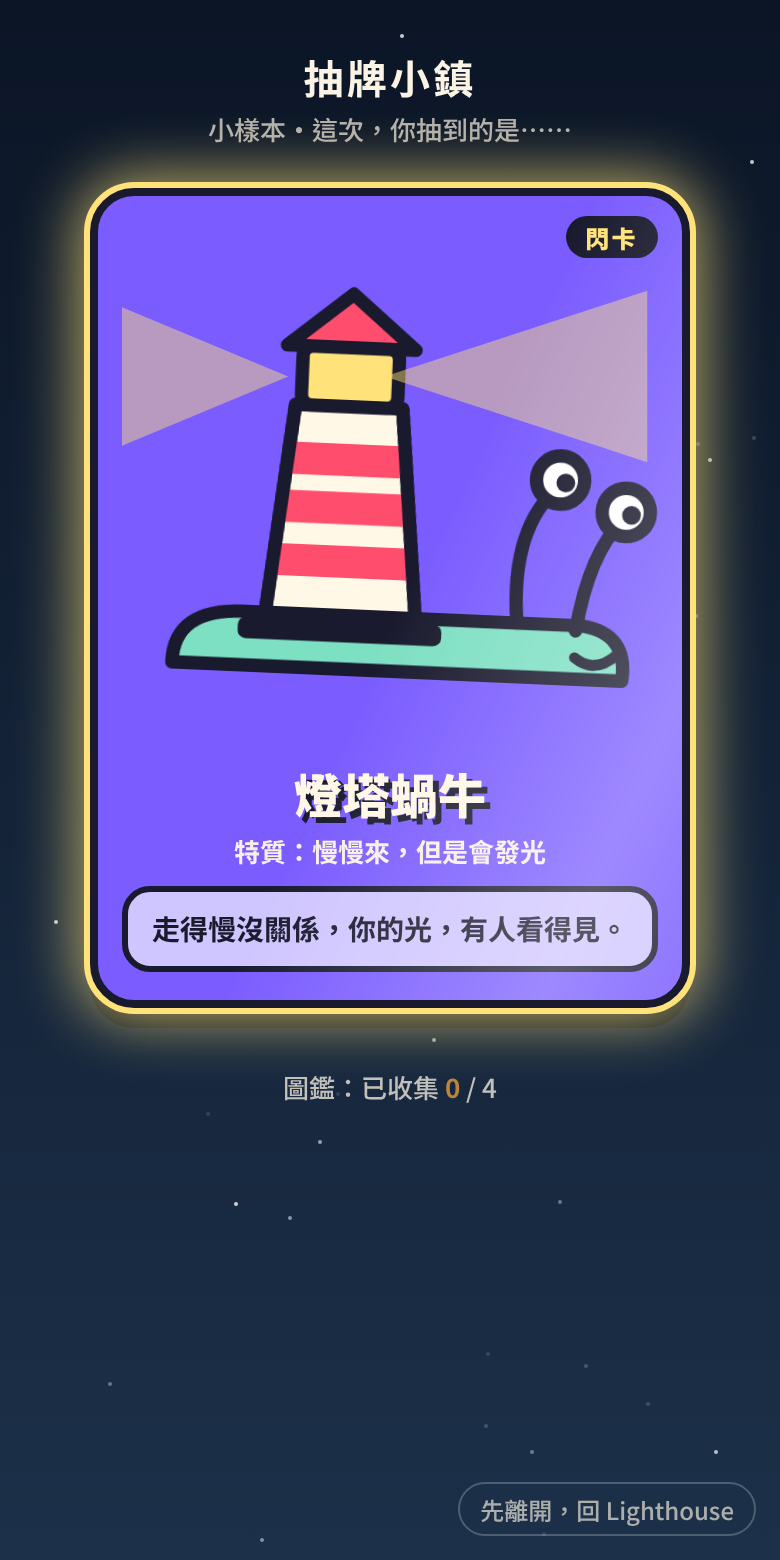
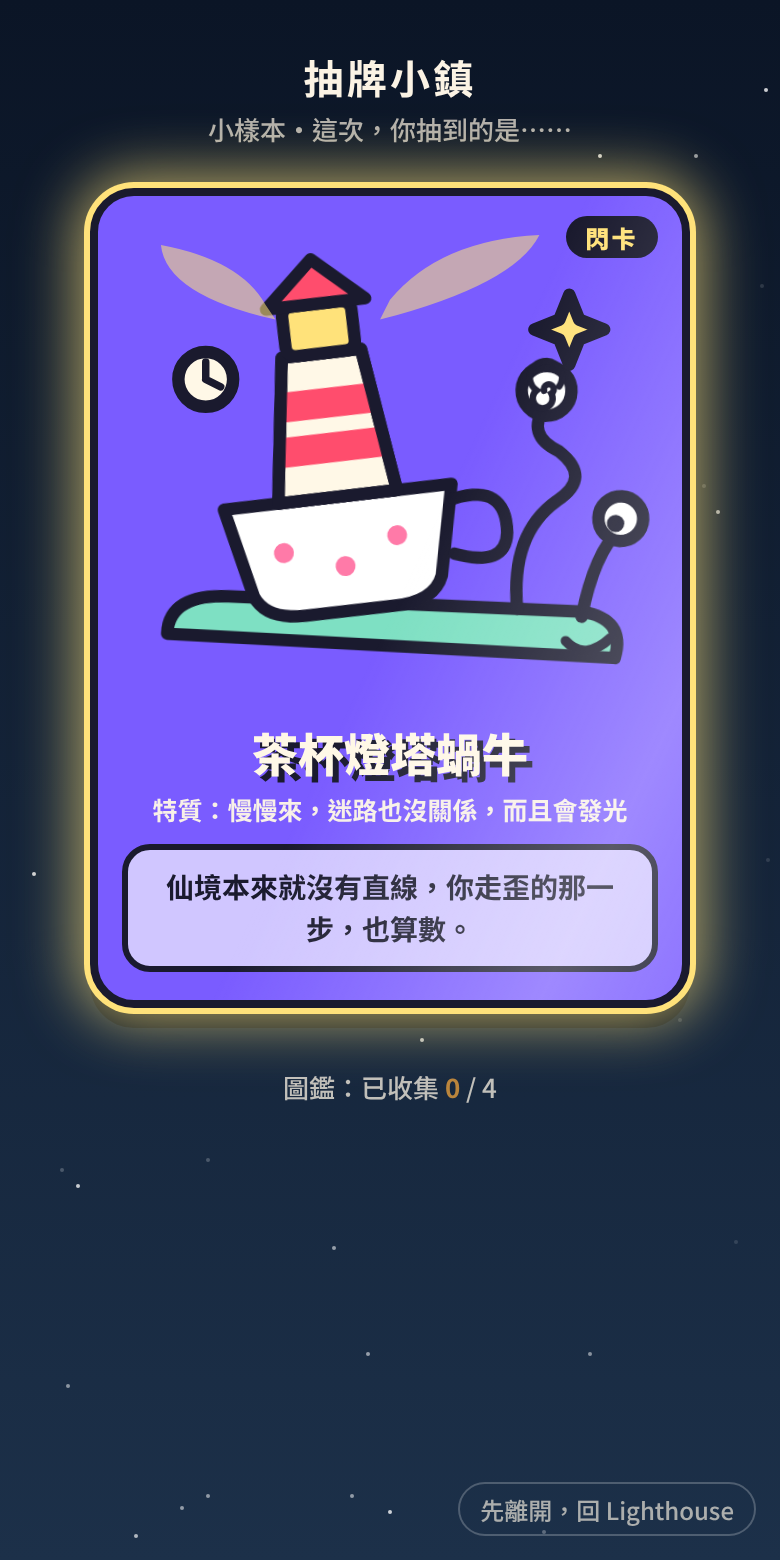
Lighthouse: 抽牌小樣本改成仙境風怪怪角色（多眼、倒走時鐘、茶杯燈塔）
Claude-Session: https://claude.ai/code/session_01QMXbFy7GatcecM2zJaJAS8

Changed region(s): [[0.1538, 0.1538, 0.8615, 0.6154]]

diff --git a/lighthouse/cards-sample.html b/lighthouse/cards-sample.html
@@ -24,16 +24,18 @@ h1{font-size:20px;margin:6px 0 2px;letter-spacing:.08em}
 .card.flip{transform:rotateY(180deg)}
 .face{position:absolute;inset:0;border-radius:22px;backface-visibility:hidden;-webkit-backface-visibility:hidden;border:4px solid var(--ink);
   box-shadow:0 10px 0 rgba(0,0,0,.35)}
-.back{background:repeating-linear-gradient(45deg,#2b4a6b 0 12px,#33567a 12px 24px);display:flex;align-items:center;justify-content:center;flex-direction:column;gap:10px}
-.back .q{font-size:84px;font-weight:900;color:var(--acc);text-shadow:4px 4px 0 var(--ink);animation:bob 1.6s ease-in-out infinite}
+.back{background:repeating-conic-gradient(#2b1a4a 0 12deg,#4a2a7a 12deg 24deg);display:flex;align-items:center;justify-content:center;flex-direction:column;gap:10px}
+.back .q{font-size:84px;transform-origin:center;font-weight:900;color:var(--acc);text-shadow:4px 4px 0 var(--ink);animation:bob 1.6s ease-in-out infinite}
 .back .hint{font-size:14px;font-weight:700;background:var(--ink);color:#fbf3e4;padding:4px 12px;border-radius:99px}
-@keyframes bob{50%{transform:translateY(-8px) rotate(-4deg)}}
+@keyframes bob{0%,100%{transform:translateY(0) rotate(-8deg)}50%{transform:translateY(-12px) rotate(10deg)}}
+.clk{animation:rev 6s linear infinite}
+@keyframes rev{to{transform:rotate(-360deg)}}
 .front{transform:rotateY(180deg);padding:12px 12px 14px;display:flex;flex-direction:column;color:var(--ink)}
 .front .rar{position:absolute;top:10px;right:12px;font-size:12px;font-weight:900;background:var(--ink);color:#ffe27a;padding:2px 10px;border-radius:99px;letter-spacing:.1em}
 .front .art{flex:1;display:flex;align-items:center;justify-content:center;min-height:0}
 .front .art svg{width:100%;height:100%}
-.front .name{font-size:24px;font-weight:900;text-align:center;margin:0}
-.front .trait{font-size:13px;font-weight:700;text-align:center;margin:2px 0 8px;opacity:.75}
+.front .name{font-size:23px;font-weight:900;text-align:center;margin:0}
+.front .trait{font-size:12.5px;font-weight:700;text-align:center;margin:2px 0 8px;opacity:.75}
 .front .say{background:rgba(255,255,255,.65);border:3px solid var(--ink);border-radius:14px;padding:8px 10px;font-size:14px;font-weight:700;text-align:center;line-height:1.5}
 .front.rare{color:#fff8e7}
 .front.rare .name{text-shadow:3px 3px 0 var(--ink)}
@@ -67,7 +69,7 @@ h1{font-size:20px;margin:6px 0 2px;letter-spacing:.08em}
 <p class="sub">小樣本・這次，你抽到的是⋯⋯</p>
 
 <div class="stage"><div class="card" id="card" role="button" tabindex="0" aria-label="翻牌">
-  <div class="face back"><div class="q">?</div><div class="hint">點一下，翻牌</div></div>
+  <div class="face back"><div class="q">?</div><div class="hint">掉進兔子洞，翻牌</div></div>
   <div class="face front" id="front"></div>
 </div></div>
 
@@ -82,65 +84,89 @@ const o = `stroke="${INK}" stroke-width="5" stroke-linejoin="round" stroke-linec
 
 /* 角色：全部是手繪塗鴉風 SVG，故意歪歪的、不對稱 */
 const eyeBig = (x,y,r=11,px=0) => `<g class="blink"><circle cx="${x}" cy="${y}" r="${r}" fill="#fff" ${o}/><circle cx="${x+px}" cy="${y+2}" r="${r/2.4}" fill="${INK}"/></g>`;
+const eyeSpiral = (x,y,r=12) => `<g class="blink"><circle cx="${x}" cy="${y}" r="${r}" fill="#fff" ${o}/><path d="M${x} ${y} m-1 0 a2 2 0 1 1 3 1 a4 4 0 1 1 -6 -1 a6.5 6.5 0 1 1 9 -2" fill="none" stroke="${INK}" stroke-width="2.6" stroke-linecap="round"/></g>`;
 const ART = {
+  /* 吐司水獺：奶油融化中，三隻眼睛高低不一，手像麵條 */
   otter: `<svg viewBox="0 0 200 200"><g class="wob">
-    <path d="M52 70 Q52 38 82 42 Q100 28 118 42 Q148 38 148 70 L152 150 Q152 172 130 172 L70 172 Q48 172 48 150 Z" fill="#f2b45a" ${o}/>
-    <path d="M62 62 Q100 48 138 62" fill="none" stroke="#c9822e" stroke-width="5" stroke-linecap="round"/>
-    <ellipse cx="100" cy="112" rx="34" ry="30" fill="#8a5a38" ${o}/>
-    <ellipse cx="100" cy="124" rx="20" ry="14" fill="#e6c9a0" ${o}/>
-    <ellipse cx="100" cy="116" rx="7" ry="5" fill="${INK}"/>
-    <path d="M76 98 Q84 92 92 98" fill="none" stroke="${INK}" stroke-width="5" stroke-linecap="round"/>
-    <path d="M110 98 Q118 92 126 98" fill="none" stroke="${INK}" stroke-width="5" stroke-linecap="round"/>
-    <path d="M94 130 Q100 136 106 130" fill="none" stroke="${INK}" stroke-width="4" stroke-linecap="round"/>
-    <circle cx="170" cy="150" r="4" fill="#f2b45a"/><circle cx="30" cy="160" r="3" fill="#f2b45a"/><circle cx="178" cy="172" r="3" fill="#f2b45a"/>
+    <path d="M50 76 Q44 40 80 44 Q100 26 120 44 Q156 40 150 76 L156 140 Q160 152 146 154 Q140 176 130 152 Q120 150 116 162 Q112 182 102 160 Q90 154 84 166 Q78 178 72 156 Q56 158 50 146 Z" fill="#f2b45a" ${o}/>
+    <path d="M60 58 Q100 44 140 58" fill="none" stroke="#c9822e" stroke-width="5" stroke-linecap="round"/>
+    <g transform="rotate(-14 98 34)"><rect x="76" y="22" width="44" height="22" rx="4" fill="#ffe66d" ${o}/><path d="M80 44 Q84 56 90 44" fill="#ffe66d" ${o}/></g>
+    <path d="M70 18 L96 6 L112 14 L96 24 Z" fill="#ff4d6d" ${o} transform="rotate(8 90 14)"/>
+    <ellipse cx="100" cy="108" rx="38" ry="32" fill="#8a5a38" ${o}/>
+    <ellipse cx="104" cy="124" rx="22" ry="14" fill="#e6c9a0" ${o}/>
+    ${eyeBig(78,96,13,3)}${eyeBig(116,88,9,-2)}${eyeBig(100,70,5,0)}
+    <path d="M84 126 Q104 150 126 124 Z" fill="#7a1f3a" ${o}/>
+    <path d="M108 132 Q118 160 134 150 Q128 138 120 132 Z" fill="#ff6b8a" ${o}/>
+    <rect x="94" y="124" width="8" height="10" rx="2" fill="#fff" ${o}/>
+    <path d="M52 112 Q30 100 36 128 Q24 140 42 150" fill="none" stroke="${INK}" stroke-width="5" stroke-linecap="round"/><circle cx="42" cy="152" r="7" fill="#e6c9a0" ${o}/>
+    <path d="M148 110 Q176 90 160 70 Q182 62 170 44" fill="none" stroke="${INK}" stroke-width="5" stroke-linecap="round"/><circle cx="170" cy="42" r="7" fill="#e6c9a0" ${o}/>
     </g>
-    <g class="zz" fill="${INK}" font-weight="900" font-family="sans-serif"><text x="150" y="44" font-size="22">Z</text></g>
-    <g class="zz" style="animation-delay:.7s" fill="${INK}" font-weight="900" font-family="sans-serif"><text x="168" y="28" font-size="16">z</text></g></svg>`,
+    <g class="zz" fill="${INK}" font-weight="900" font-family="sans-serif"><text x="14" y="52" font-size="22">Z</text></g>
+    <g class="zz" style="animation-delay:.7s" fill="${INK}" font-weight="900" font-family="sans-serif"><text x="30" y="34" font-size="16">z</text></g></svg>`,
+  /* WiFi 刺蝟：刺是長眼睛的天線，一隻超大眼，嘴巴開到耳朵 */
   hedgehog: `<svg viewBox="0 0 200 200"><g class="wob">
-    <path d="M30 140 L22 118 L40 112 L30 92 L50 90 L48 68 L68 74 L76 54 L92 66 L108 48 L120 68 L140 58 L146 80 L168 80 L160 102 L180 108 L166 128 L176 146 Q176 172 150 172 L56 172 Q30 172 30 140Z" fill="#7b5cff" ${o}/>
-    <ellipse cx="100" cy="124" rx="48" ry="40" fill="#ffd9a8" ${o}/>
-    ${eyeBig(82,116,13,-2)}${eyeBig(120,114,9,3)}
-    <ellipse cx="102" cy="136" rx="6" ry="5" fill="${INK}"/>
-    <path d="M86 150 L92 144 L98 150 L104 144 L110 150 L116 144" fill="none" stroke="${INK}" stroke-width="4.5" stroke-linecap="round" stroke-linejoin="round"/>
+    <path d="M60 100 L34 40" stroke="${INK}" stroke-width="5" stroke-linecap="round"/><circle cx="32" cy="36" r="9" fill="#fff" ${o}/><circle cx="34" cy="38" r="3.5" fill="${INK}"/>
+    <path d="M84 84 L76 22" stroke="${INK}" stroke-width="5" stroke-linecap="round"/><circle cx="76" cy="18" r="9" fill="#fff" ${o}/><circle cx="74" cy="20" r="3.5" fill="${INK}"/>
+    <path d="M112 82 Q104 54 122 40" fill="none" stroke="${INK}" stroke-width="5" stroke-linecap="round"/><circle cx="124" cy="36" r="9" fill="#fff" ${o}/><circle cx="127" cy="36" r="3.5" fill="${INK}"/>
+    <path d="M138 96 L172 58" stroke="${INK}" stroke-width="5" stroke-linecap="round"/><circle cx="175" cy="54" r="9" fill="#fff" ${o}/><circle cx="173" cy="57" r="3.5" fill="${INK}"/>
+    <path d="M30 144 Q24 100 62 92 Q100 76 138 92 Q178 100 172 144 Q172 176 100 176 Q30 176 30 144Z" fill="#7b5cff" ${o}/>
+    <path d="M44 120 L36 112 M52 100 L42 90 M150 98 L160 88 M160 124 L170 118" stroke="${INK}" stroke-width="5" stroke-linecap="round"/>
+    <circle cx="100" cy="118" r="32" fill="#ffd9a8" ${o}/>
+    <circle cx="100" cy="112" r="20" fill="#fff" ${o}/>
+    <circle cx="100" cy="112" r="10" fill="#ff4d6d" ${o}/><circle cx="100" cy="112" r="4" fill="${INK}"/>
+    <path d="M54 146 Q100 190 148 142 Q100 156 54 146Z" fill="#7a1f3a" ${o}/>
+    <path d="M62 148 L68 156 L76 150 L84 160 L92 152 L100 162 L108 152 L116 160 L124 150 L132 156 L140 146" fill="none" stroke="#fff" stroke-width="4" stroke-linejoin="round"/>
+    <path d="M60 176 L56 190 M92 178 L96 186 M140 174 L150 190" stroke="${INK}" stroke-width="5" stroke-linecap="round"/>
     </g>
-    <g fill="none" stroke="#ff4d6d" stroke-width="6" stroke-linecap="round"><path d="M80 38 Q100 22 120 38"/><path d="M89 48 Q100 40 111 48"/></g>
-    <circle cx="100" cy="58" r="5" fill="#ff4d6d"/>
-    <text x="146" y="36" font-size="30" font-weight="900" fill="#ff4d6d" font-family="sans-serif">!</text></svg>`,
-  penguin: `<svg viewBox="0 0 200 200"><g class="wob">
-    <path d="M100 26 Q154 26 156 100 Q160 172 100 172 Q40 172 44 100 Q46 26 100 26Z" fill="#3c4a8a" ${o}/>
-    <path d="M100 74 Q138 76 138 116 Q138 164 100 164 Q62 164 62 116 Q62 76 100 74Z" fill="#fff8e7" ${o}/>
-    ${eyeBig(80,64,10,0)}${eyeBig(118,60,15,-4)}
-    <path d="M84 84 L116 84 L100 102 Z" fill="#ff9f1c" ${o}/>
-    <path d="M70 118 Q100 150 132 114" fill="none" stroke="${INK}" stroke-width="5" stroke-linecap="round"/>
-    <path d="M66 118 L72 112 M134 112 L130 120" stroke="${INK}" stroke-width="4" stroke-linecap="round"/>
-    <path d="M44 110 Q22 120 30 146 Q42 134 50 130Z" fill="#3c4a8a" ${o}/>
-    <path d="M156 110 Q180 112 172 140 Q160 130 150 126Z" fill="#3c4a8a" ${o}/>
-    <ellipse cx="76" cy="176" rx="18" ry="7" fill="#ff9f1c" ${o}/><ellipse cx="124" cy="176" rx="18" ry="7" fill="#ff9f1c" ${o}/>
+    <g fill="none" stroke="#ff4d6d" stroke-width="6" stroke-linecap="round"><path d="M10 82 Q22 70 36 82"/><path d="M16 90 Q22 85 30 90"/></g>
+    <text x="150" y="30" font-size="26" font-weight="900" fill="#ff4d6d" font-family="sans-serif">?!</text></svg>`,
+  /* 冷場企鵝：肚子是倒著走的時鐘，笑容大到超出臉 */
+  penguin: `<svg viewBox="0 -16 200 216"><g class="wob">
+    <path d="M100 30 Q154 30 156 100 Q160 172 100 172 Q40 172 44 100 Q46 30 100 30Z" fill="#3c4a8a" ${o}/>
+    <g transform="rotate(14 100 22)"><rect x="78" y="-4" width="44" height="34" rx="3" fill="#1a1a2e" ${o}/><rect x="68" y="26" width="64" height="8" rx="3" fill="#1a1a2e" ${o}/><rect x="78" y="16" width="44" height="7" fill="#ff4d6d"/></g>
+    <circle cx="100" cy="128" r="36" fill="#fff8e7" ${o}/>
+    <g class="clk" style="transform-origin:100px 128px"><path d="M100 128 L100 104" stroke="${INK}" stroke-width="5" stroke-linecap="round"/></g>
+    <path d="M100 128 L118 138" stroke="${INK}" stroke-width="4" stroke-linecap="round"/>
+    <text x="93" y="106" font-size="11" font-weight="900" fill="${INK}" font-family="sans-serif" transform="rotate(180 100 100)" style="display:none">12</text>
+    <g font-size="11" font-weight="900" fill="${INK}" font-family="sans-serif" text-anchor="middle"><text x="100" y="102">21</text><text x="130" y="132">9</text><text x="100" y="162">6</text><text x="70" y="132">3</text></g>
+    ${eyeSpiral(78,70,11)}${eyeBig(122,64,17,-5)}
+    <path d="M86 88 L114 88 L100 102 Z" fill="#ff9f1c" ${o}/>
+    <path d="M18 84 Q100 190 184 76 Q100 126 18 84Z" fill="#fff" ${o}/>
+    <path d="M30 96 L34 88 M48 108 L52 98 M70 116 L72 106 M96 120 L96 110 M122 116 L120 106 M146 106 L142 98 M166 94 L160 86" stroke="${INK}" stroke-width="3.5" stroke-linecap="round"/>
+    <path d="M44 120 Q16 112 18 150 Q30 142 48 140Z" fill="#3c4a8a" ${o}/>
+    <path d="M156 120 Q190 100 186 138 Q170 134 152 138Z" fill="#3c4a8a" ${o}/>
+    <ellipse cx="72" cy="178" rx="26" ry="8" fill="#ff9f1c" ${o}/><ellipse cx="132" cy="180" rx="12" ry="6" fill="#ff9f1c" ${o}/>
     </g>
-    <text x="14" y="52" font-size="20" font-weight="900" fill="${INK}" font-family="sans-serif">…</text>
-    <text x="150" y="40" font-size="20" font-weight="900" fill="${INK}" font-family="sans-serif">…</text></svg>`,
+    <text x="8" y="40" font-size="18" font-weight="900" fill="#fff8e7" font-family="sans-serif">…</text>
+    <text x="150" y="30" font-size="14" font-weight="900" fill="#ff4d6d" font-family="sans-serif">遲到了！</text></svg>`,
+  /* 燈塔蝸牛（閃卡）：茶杯裡長出歪歪的燈塔，眼睛長在打結的觸角上 */
   snail: `<svg viewBox="0 0 200 200"><g class="wob">
-    <path d="M18 168 Q18 148 44 148 L170 148 Q188 150 186 168 Z" fill="#7ee0c3" ${o}/>
-    <path d="M146 148 Q142 112 160 96" fill="none" stroke="${INK}" stroke-width="5" stroke-linecap="round"/>
-    <circle cx="160" cy="94" r="9" fill="#fff" ${o}/><circle cx="162" cy="95" r="3.5" fill="${INK}"/>
-    <path d="M168 150 Q172 120 184 108" fill="none" stroke="${INK}" stroke-width="5" stroke-linecap="round"/>
-    <circle cx="185" cy="105" r="9" fill="#fff" ${o}/><circle cx="187" cy="106" r="3.5" fill="${INK}"/>
-    <path d="M168 160 Q176 166 184 158" fill="none" stroke="${INK}" stroke-width="4" stroke-linecap="round"/>
-    <path d="M52 148 L60 70 L100 70 L108 148 Z" fill="#fff8e7" ${o}/>
-    <path d="M57 108 L104 108 M59 90 L102 90 M55 128 L106 128" stroke="#ff4d6d" stroke-width="12"/>
-    <path d="M52 148 L60 70 L100 70 L108 148 Z" fill="none" ${o}/>
-    <rect x="62" y="48" width="36" height="22" rx="4" fill="#ffe27a" ${o}/>
-    <path d="M56 48 L80 28 L104 48 Z" fill="#ff4d6d" ${o}/>
-    <rect x="42" y="150" width="76" height="8" rx="3" fill="${INK}"/>
-    </g>
-    <g class="beamB" opacity=".85"><path d="M62 58 L-10 28 L-10 88 Z" fill="#ffe27a" opacity=".55"/><path d="M98 58 L196 26 L196 90 Z" fill="#ffe27a" opacity=".55"/></g></svg>`
+    <path d="M10 170 Q10 154 34 154 L176 154 Q194 156 190 172 Z" fill="#7ee0c3" ${o}/>
+    <path d="M150 154 Q146 124 164 110 Q178 100 164 90 Q150 84 158 72" fill="none" stroke="${INK}" stroke-width="5" stroke-linecap="round"/>
+    ${eyeSpiral(158,66,10)}
+    <path d="M176 156 Q180 130 190 120" fill="none" stroke="${INK}" stroke-width="5" stroke-linecap="round"/>
+    <circle cx="190" cy="116" r="9" fill="#fff" ${o}/><circle cx="188" cy="118" r="3.5" fill="${INK}"/>
+    <path d="M170 166 Q178 174 188 164" fill="none" stroke="${INK}" stroke-width="4" stroke-linecap="round"/>
+    <g transform="rotate(-9 80 150)">
+      <path d="M36 112 L128 112 L120 148 Q116 158 100 158 L64 158 Q48 158 44 148 Z" fill="#fff" ${o}/>
+      <circle cx="58" cy="132" r="4" fill="#ff7aa8"/><circle cx="82" cy="140" r="4" fill="#ff7aa8"/><circle cx="104" cy="130" r="4" fill="#ff7aa8"/>
+      <path d="M128 118 Q150 114 148 134 Q146 148 126 140" fill="none" stroke="${INK}" stroke-width="5" stroke-linecap="round"/>
+      <path d="M58 112 L66 54 L98 54 L106 112 Z" fill="#fff8e7" ${o}/>
+      <path d="M62 92 L102 92 M64 74 L100 74" stroke="#ff4d6d" stroke-width="12"/>
+      <path d="M58 112 L66 54 L98 54 L106 112 Z" fill="none" ${o}/>
+      <rect x="68" y="34" width="28" height="20" rx="4" fill="#ffe27a" ${o}/>
+      <path d="M62 34 L82 16 L102 34 Z" fill="#ff4d6d" ${o}/>
+    </g></g>
+    <g class="beamB" opacity=".8"><path d="M54 40 Q10 30 8 10 Q40 16 50 34Z" fill="#ffe27a" opacity=".7"/><path d="M96 40 Q150 26 160 6 Q120 8 100 32Z" fill="#ffe27a" opacity=".7"/></g>
+    <circle cx="26" cy="64" r="11" fill="#fff8e7" ${o}/><path d="M26 64 L26 57 M26 64 L32 67" stroke="${INK}" stroke-width="3" stroke-linecap="round"/>
+    <path d="M168 40 L172 30 L176 40 L186 44 L176 48 L172 58 L168 48 L158 44Z" fill="#ffe27a" ${o}/></svg>`
 };
 
 const CARDS = [
-  {id:"otter",   name:"吐司水獺",   trait:"特質：一直想睡，翻身會掉麵包屑", say:"今天的目標：不要睡著。（失敗率 99%）", bg:"#ffd479", rare:0},
-  {id:"hedgehog",name:"WiFi 刺蝟", trait:"特質：訊號不好的時候很容易炸毛", say:"他不是生氣，只是在重新連線。", bg:"#c9b8ff", rare:0},
-  {id:"penguin", name:"冷場企鵝",   trait:"特質：一開口全場安靜，但自己覺得很好笑", say:"這個笑話下次一定會成功。", bg:"#a9d4ff", rare:0},
-  {id:"snail",   name:"燈塔蝸牛",   trait:"特質：慢慢來，但是會發光", say:"走得慢沒關係，你的光，有人看得見。", bg:"#7a5cff", rare:1}
+  {id:"otter",   name:"吐司水獺",   trait:"特質：奶油融化中，有三隻眼睛，但常常睡著三隻", say:"他說自己一點都不睏。（第三隻眼睛已經先睡了）", bg:"#ffb3d1", rare:0},
+  {id:"hedgehog",name:"WiFi 刺蝟", trait:"特質：頭上的天線都有眼睛，訊號不好會炸毛", say:"他不是生氣，只是你說的話，昨天才傳到。", bg:"#b8f27c", rare:0},
+  {id:"penguin", name:"冷場企鵝",   trait:"特質：肚子上的時鐘倒著走，永遠早到昨天", say:"全場安靜，是因為大家都在偷偷憋笑。（大概）", bg:"#7de3ff", rare:0},
+  {id:"snail",   name:"茶杯燈塔蝸牛", trait:"特質：慢慢來，迷路也沒關係，而且會發光", say:"仙境本來就沒有直線，你走歪的那一步，也算數。", bg:"#7a5cff", rare:1}
 ];
 
 /* 星空 */
